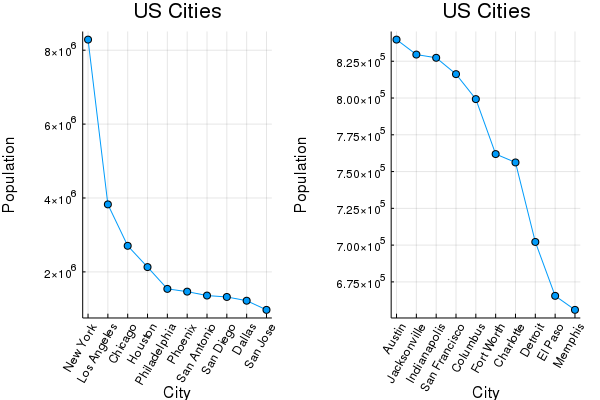
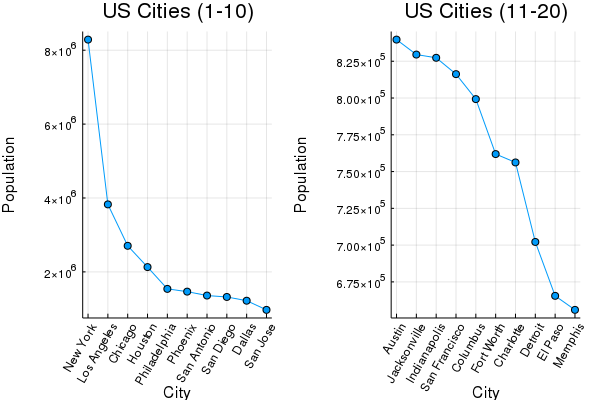
Fixed plot titles

Changed region(s): [[0.66, 0.0, 0.96, 0.06], [0.18, 0.0, 0.42, 0.06]]

diff --git a/README.md b/README.md
@@ -75,7 +75,7 @@ function plotcities()
     c = df[1:10, :]
     d = df[11:20, :]
     p1 = plot([c[:population]],
-        title = "US Cities",
+        title = "US Cities (1-10)",
         xlabel = "City",
         ylabel = "Population",
         xticks=(1:10, c[:name]),
@@ -84,7 +84,7 @@ function plotcities()
         markershape = :auto
         )
     p2 = plot([d[:population]],
-        title = "US Cities",
+        title = "US Cities (11-20)",
         xlabel = "City",
         ylabel = "Population",
         xticks=(1:10, d[:name]),
